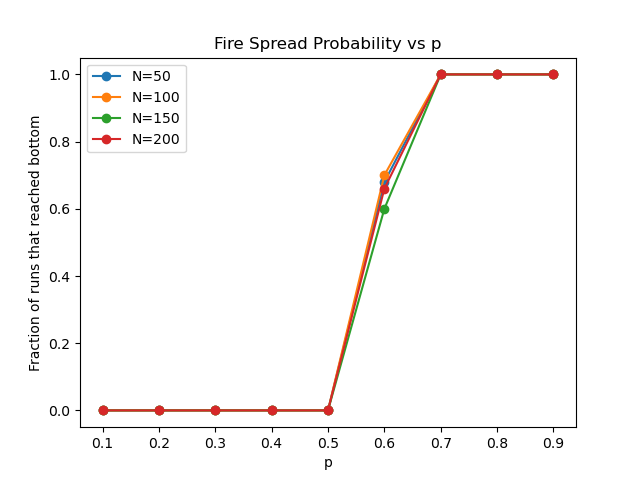
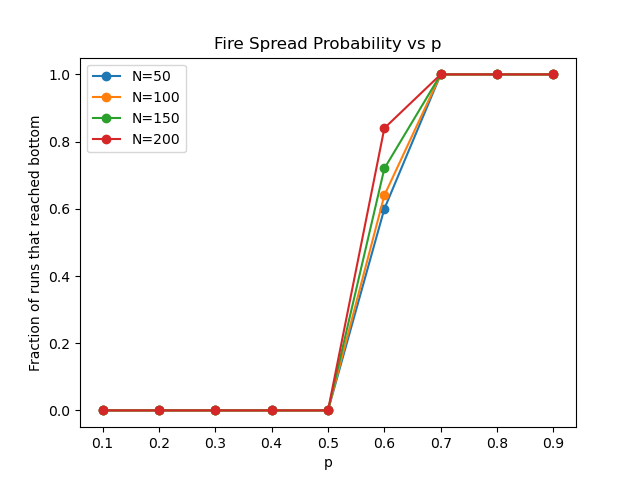
修改随机种子

Changed region(s): [[0.5312, 0.1562, 0.6875, 0.75], [0.5, 0.75, 0.5312, 0.8438]]

diff --git a/forest_fire.cpp b/forest_fire.cpp
@@ -340,7 +340,9 @@ int main(int argc, char **argv) {
             if (rank == 0) {
                 // 根据 run 的不同 seed 生成新的随机网格
                 // 这样才是真正 M 次独立的初始条件
-                unsigned int newSeed = (unsigned int) time(NULL) + run * 10000;
+//                unsigned int newSeed = (unsigned int) time(NULL) + run * 10000;
+                unsigned int newSeed = (unsigned int)time(NULL) + run + rank * 10000;
+
                 globalGrid = generateRandomGrid(N, p, newSeed);
             }
         }
